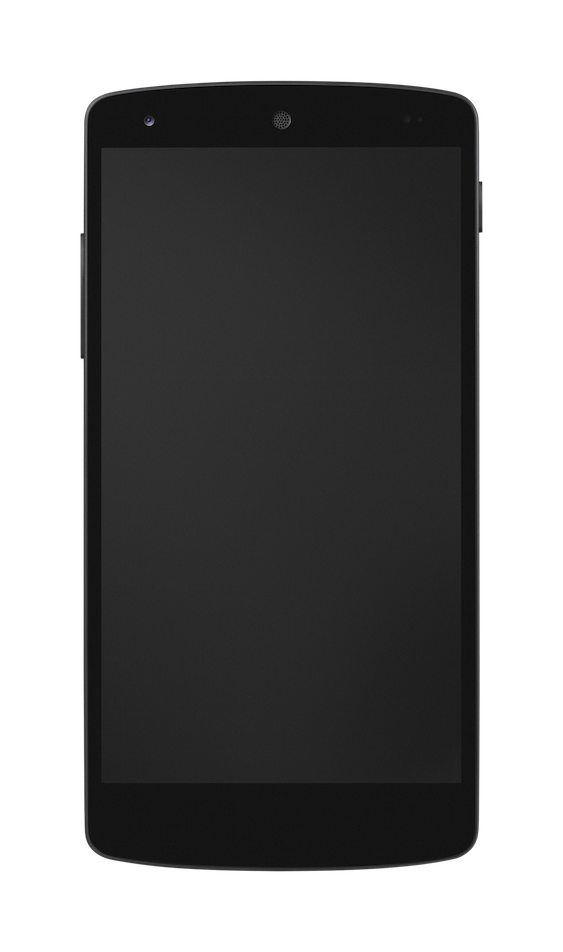
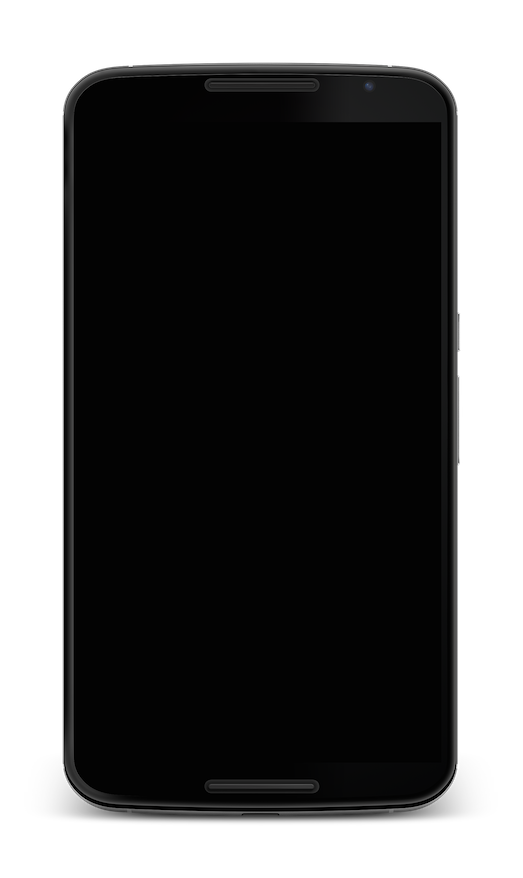
swap nexus 5 for nexus 6

diff --git a/css/android-layout.css b/css/android-layout.css
@@ -20,8 +20,8 @@ body {
 	background-image: url(../images/port_back.png);
 	background-repeat: no-repeat;
 	
-	width: 563px;
-	height: 880px;
+	width: 523px;
+	height: 878px;
 	
 	transform-origin: 50% 0;
 	transition: top 1s ease-in-out;
@@ -100,7 +100,7 @@ body {
 .phone {
 	transform: scale(0.75);
 	margin-top: -62px;
-	margin-left: -282px;
+	margin-left: -265px;
 }
 
 
@@ -116,11 +116,11 @@ body {
 .screen {
 	position: absolute;
 	
-	top: 148px;
-	right: 102px;
+	top: 122px;
+	right: 82px;
 	
 	width: 360px;
-	height: 635px;
+	height: 640px;
 	
 	background-color: #eee;
 	
